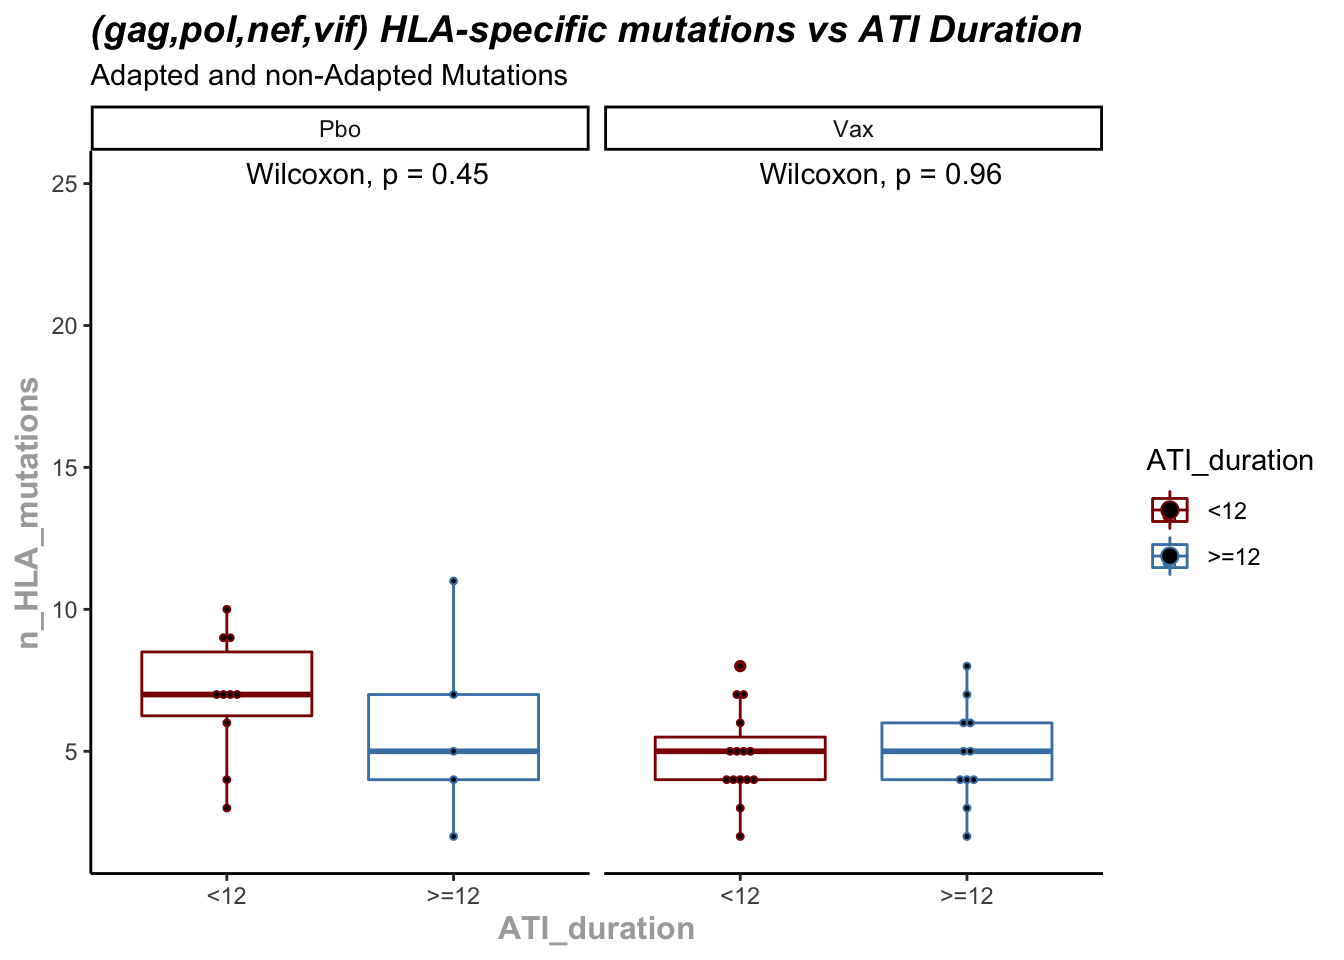
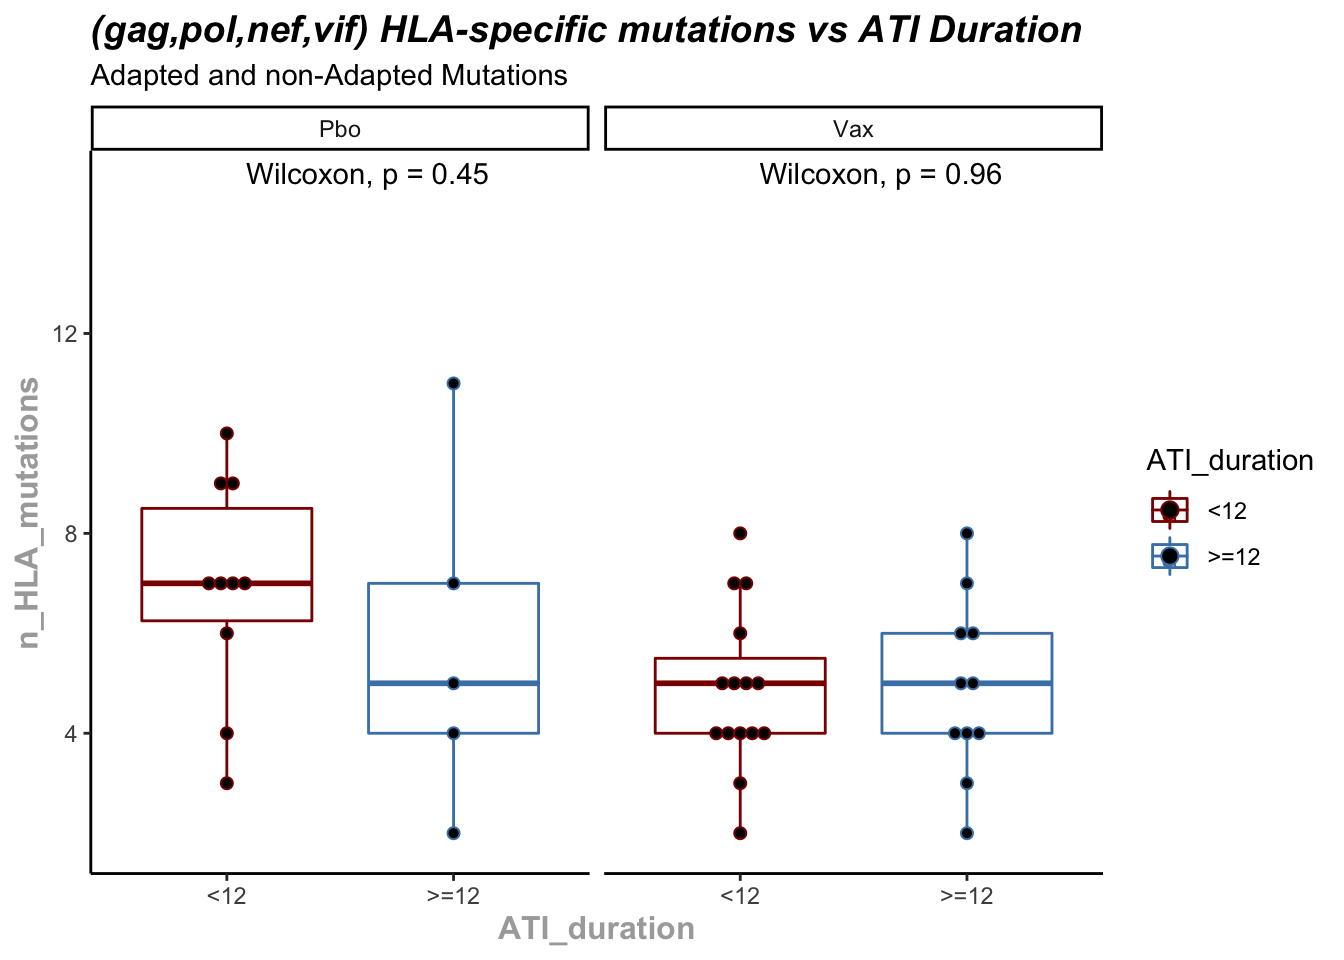
Build site.

diff --git a/docs/051_AdaptedHLAMutations.html b/docs/051_AdaptedHLAMutations.html
@@ -481,16 +481,16 @@ This reproducible <a href="https://rmarkdown.rstudio.com">R Markdown</a> analysi
 <div class="panel panel-default">
 <div class="panel-heading">
 <p class="panel-title">
-<a data-toggle="collapse" data-parent="#workflowr-checks" href="#strongRepositoryversionstrongahrefhttpsgithubcommnogueraHLAAnalysistree3907918a7de88ccd7ab0607fc7d8e94b3f5eaf52targetblank3907918a"> <span class="glyphicon glyphicon-ok text-success" aria-hidden="true"></span> <strong>Repository version:</strong> <a href="https://github.com/mnoguera/HLA_Analysis/tree/3907918a7de88ccd7ab0607fc7d8e94b3f5eaf52" target="_blank">3907918</a> </a>
+<a data-toggle="collapse" data-parent="#workflowr-checks" href="#strongRepositoryversionstrongahrefhttpsgithubcommnogueraHLAAnalysistree8838cac3ea4a6b997a42a72e04103a1f936dda64targetblank8838caca"> <span class="glyphicon glyphicon-ok text-success" aria-hidden="true"></span> <strong>Repository version:</strong> <a href="https://github.com/mnoguera/HLA_Analysis/tree/8838cac3ea4a6b997a42a72e04103a1f936dda64" target="_blank">8838cac</a> </a>
 </p>
 </div>
[2 lines of base64/hex data omitted]
 <div class="panel-body">
 <p>
 Great! You are using Git for version control. Tracking code development and connecting the code version to the results is critical for reproducibility.
 </p>
 <p>
-The results in this page were generated with repository version <a href="https://github.com/mnoguera/HLA_Analysis/tree/3907918a7de88ccd7ab0607fc7d8e94b3f5eaf52" target="_blank">3907918</a>. See the <em>Past versions</em> tab to see a history of the changes made to the R Markdown and HTML files.
+The results in this page were generated with repository version <a href="https://github.com/mnoguera/HLA_Analysis/tree/8838cac3ea4a6b997a42a72e04103a1f936dda64" target="_blank">8838cac</a>. See the <em>Past versions</em> tab to see a history of the changes made to the R Markdown and HTML files.
 </p>
 <p>
 Note that you need to be careful to ensure that all relevant files for the analysis have been committed to Git prior to generating the results (you can use <code>wflow_publish</code> or <code>wflow_git_commit</code>). workflowr only checks the R Markdown file, but you know if there are other scripts or data files that it depends on. Below is the status of the Git repository when the results were generated:
@@ -545,6 +545,40 @@ Message
 </tr>
 </thead>
 <tbody>
+<tr>
+<td>
+Rmd
+</td>
+<td>
+<a href="https://github.com/mnoguera/HLA_Analysis/blob/8838cac3ea4a6b997a42a72e04103a1f936dda64/analysis/051_AdaptedHLAMutations.Rmd" target="_blank">8838cac</a>
+</td>
+<td>
+Marc Noguera-Julian
+</td>
+<td>
+2022-03-11
+</td>
+<td>
+workflowr::wflow_publish(all = T)
+</td>
+</tr>
+<tr>
+<td>
+html
+</td>
+<td>
+<a href="https://rawcdn.githack.com/mnoguera/HLA_Analysis/e2ba9db244203ebc4c4315dedaac07070afc640e/docs/051_AdaptedHLAMutations.html" target="_blank">e2ba9db</a>
+</td>
+<td>
+Marc Noguera-Julian
+</td>
+<td>
+2022-03-11
+</td>
+<td>
+Build site.
+</td>
+</tr>
 <tr>
 <td>
 Rmd
@@ -1134,7 +1168,7 @@ variant_df %&gt;%
   dplyr::rename(TreatmentGroup=Treatment.Vax.vs.Pbo,n_HLA_mutations=total_within_HLA) %&gt;% 
   ggplot(.,aes(x=ATI_duration,y=n_HLA_mutations,color=ATI_duration))+
     geom_boxplot()+
-    ggpubr::stat_compare_means(method = &quot;wilcox.test&quot;,label.x = 1.3,label.y = 25)+
+    ggpubr::stat_compare_means(method = &quot;wilcox.test&quot;,label.x = 1.3,label.y = 15)+
     theme_classic()+
     #geom_jitter(shape=16, position=position_jitter(0.2))+
     scale_color_manual(values=c(&quot;darkred&quot;, &quot;steelblue&quot;))+
@@ -1229,7 +1263,7 @@ variant_df %&gt;%
   dplyr::mutate(good_HLA=ifelse(SampleID %in% goodHLA_samples,&quot;Good&quot;,&quot;Bad&quot;)) %&gt;% 
   ggplot(.,aes(x=good_HLA,y=n_HLA_mutations,color=good_HLA))+
     geom_boxplot()+
-    ggpubr::stat_compare_means(method = &quot;wilcox.test&quot;,label.x = 1.3,label.y = 25)+
+    ggpubr::stat_compare_means(method = &quot;wilcox.test&quot;,label.x = 1.3,label.y = 15)+
     theme_classic()+
     #geom_jitter(shape=16, position=position_jitter(0.2))+
     scale_color_manual(values=c(&quot;darkgreen&quot;, &quot;orange&quot;))+
@@ -1244,6 +1278,43 @@ variant_df %&gt;%
 Bin width defaults to 1/30 of the range of the data. Pick better value with
 `binwidth`.</code></pre>
 <p><img src="figure/051_AdaptedHLAMutations.Rmd/calculate%20numbe%20of%20variants%20in%20patients%20HLA%20Mutations%20List%20vs%20HLA%20Goodness-1.png" width="672" style="display: block; margin: auto;" /></p>
+<p>
+<button type="button" class="btn btn-default btn-xs btn-workflowr btn-workflowr-fig" data-toggle="collapse" data-target="#fig-no-spaces-calculate-numbe-of-variants-in-patients-HLA-Mutations-List-vs-HLA-Goodness-1">
+Past versions of "calculate numbe of variants in patients HLA Mutations List vs HLA Goodness-1.png"
+</button>
+</p>
+<div id="fig-no-spaces-calculate-numbe-of-variants-in-patients-HLA-Mutations-List-vs-HLA-Goodness-1" class="collapse">
+<div class="table-responsive">
+<table class="table table-condensed table-hover">
+<thead>
+<tr>
+<th>
+Version
+</th>
+<th>
+Author
+</th>
+<th>
+Date
+</th>
+</tr>
+</thead>
+<tbody>
+<tr>
+<td>
+<a href="https://github.com/mnoguera/HLA_Analysis/blob/e2ba9db244203ebc4c4315dedaac07070afc640e/docs/figure/051_AdaptedHLAMutations.Rmd/calculate numbe of variants in patients HLA Mutations List vs HLA Goodness-1.png" target="_blank">e2ba9db</a>
+</td>
+<td>
+Marc Noguera-Julian
+</td>
+<td>
+2022-03-11
+</td>
+</tr>
+</tbody>
+</table>
+</div>
+</div>
 <br>
 <p>
 <button type="button" class="btn btn-default btn-workflowr btn-workflowr-sessioninfo" data-toggle="collapse" data-target="#workflowr-sessioninfo" style="display: block;">
